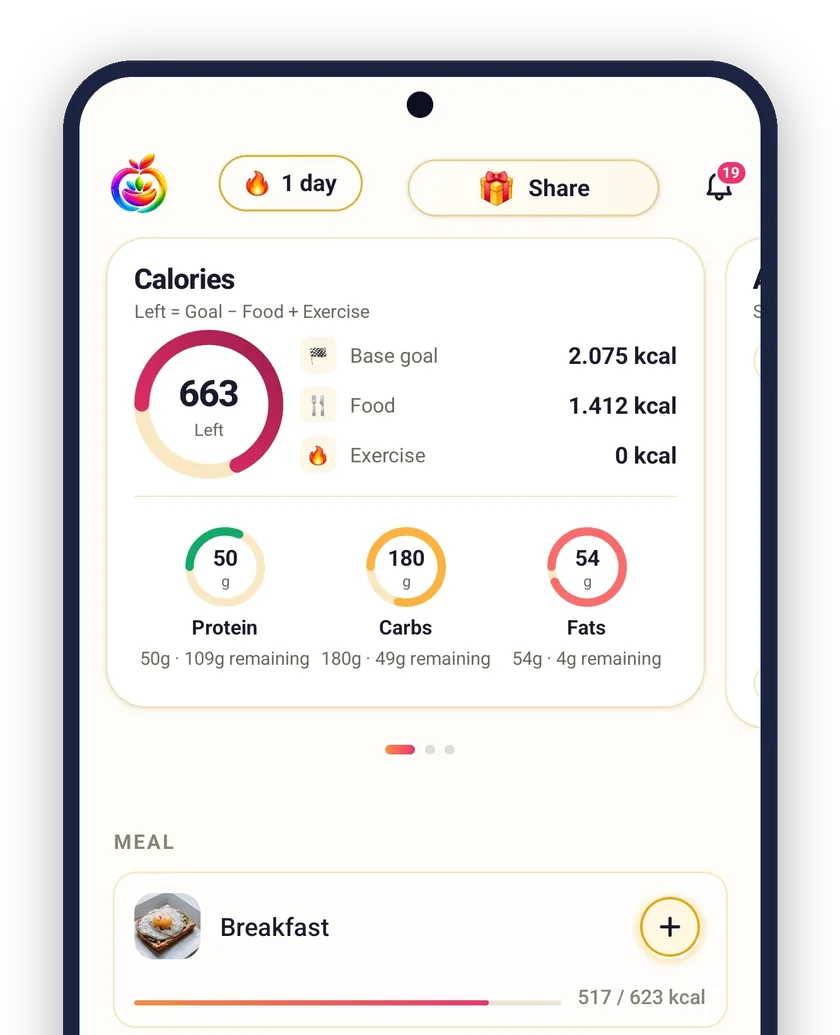
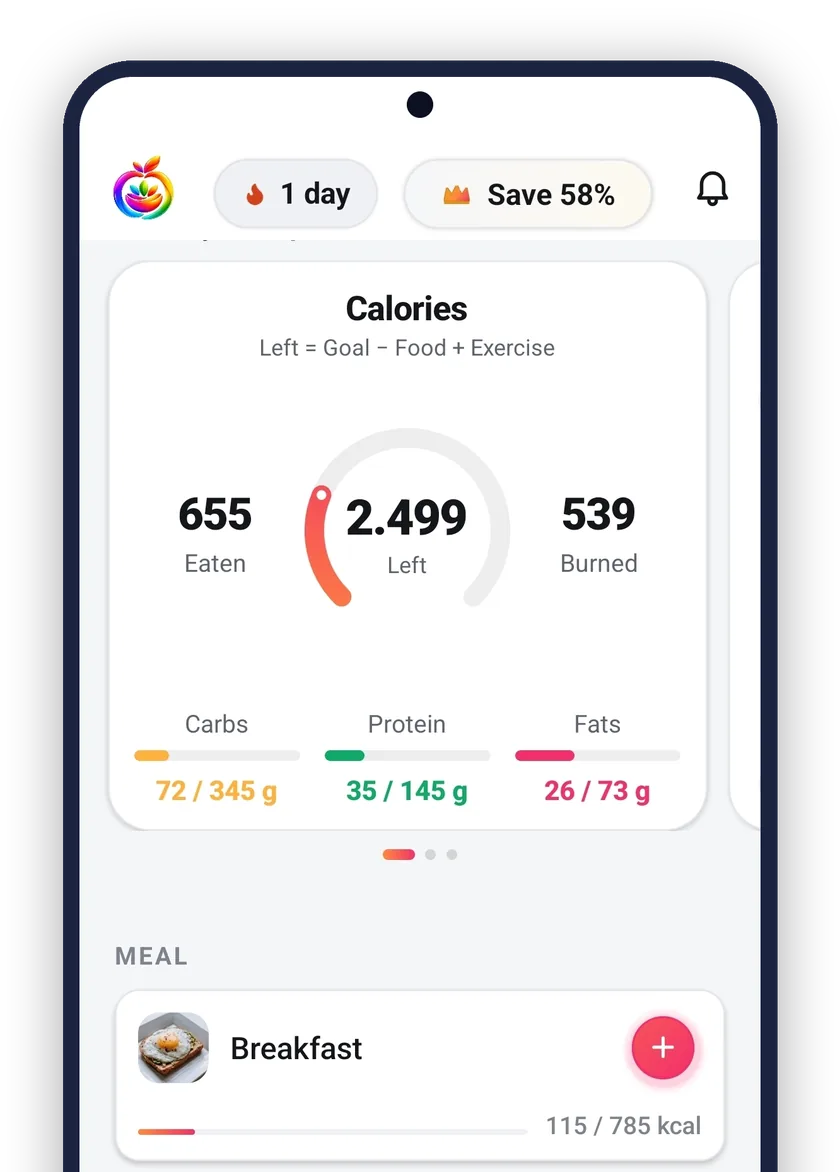
Hero: the redesigned home screen, sitting 1 of the re-capture
The app was redesigned again between 3 and 9 September (new calories
card with gauge and macro bars, new bottom navigation, new card system),
so the 31 August captures were stale. The hero pair is retaken to spec —
bell cleared, matched ES/EN state, same crop row — framed at 840x1172,
31-33 KB each. Chips re-annotate numbers that are actually in the new
capture (655 kcal eaten, 35 g protein) and the protein chip moves onto
the carousel-dots row so it no longer sits on the fats value.

tools/APP-HANDOFF.md carries the app-side findings for the next app
batch; tools/CAPTURE-BACKLOG.md notes the streak re-capture still owed
and the two placeholder mini cards.

Claude-Session: https://claude.ai/code/session_01KevDdJUKxk6qF4wjb19pLt

diff --git a/index.html b/index.html
@@ -219,19 +219,19 @@
           <div class="hero-visual">
             <div class="hero-stage-x" id="heroStage">
               <div class="illus" data-par="6">
-                <img src="assets/img/screens/home-hero-es.webp" width="840" height="1035"
-                     alt="Captura real de la app: la pantalla de inicio de Fotocal en un día con registros — 663 kcal restantes de un objetivo de 2.075, anillos de proteína, carbohidratos y grasas, y el desayuno ya registrado con 517 kcal"
+                <img src="assets/img/screens/home-hero-es.webp" width="840" height="1172"
+                     alt="Captura real de la app: la pantalla de inicio de Fotocal en un día con registros — 655 kcal ingeridas, 2.499 restantes y 539 quemadas, barras de carbohidratos, proteína y grasas, y el desayuno ya registrado con 115 kcal"
                      fetchpriority="high" decoding="async">
               </div>
               <!-- The chips repeat two numbers actually visible in the
                    screenshot beside them — annotations, not inventions. -->
               <div class="f-chip f-chip-1" data-par="-14" aria-hidden="true">
                 <span class="f-chip-ico"><svg viewBox="0 0 24 24" fill="none" stroke="currentColor" stroke-width="2" stroke-linecap="round" stroke-linejoin="round"><path d="M12 2s4 4.5 4 8a4 4 0 0 1-8 0c0-1.5.6-2.8 1.2-3.8"/><path d="M12 22a6 6 0 0 0 6-6c0-2-1-3.5-2-5"/><path d="M12 22a6 6 0 0 1-6-6c0-1 .3-2 .8-3"/></svg></span>
-                <span><strong>663 kcal</strong><small>restantes hoy</small></span>
+                <span><strong>655 kcal</strong><small>ingeridas hoy</small></span>
               </div>
               <div class="f-chip f-chip-2" data-par="-10" aria-hidden="true">
                 <span class="f-chip-ico"><svg viewBox="0 0 24 24" fill="none" stroke="currentColor" stroke-width="2.2" stroke-linecap="round"><circle cx="12" cy="12" r="8" opacity=".35"/><path d="M12 4a8 8 0 0 1 8 8"/></svg></span>
-                <span><strong>50 g de proteína</strong><small>registrados hoy</small></span>
+                <span><strong>35 g de proteína</strong><small>registrados hoy</small></span>
               </div>
             </div>
           </div>

diff --git a/en/index.html b/en/index.html
@@ -219,19 +219,19 @@
           <div class="hero-visual">
             <div class="hero-stage-x" id="heroStage">
               <div class="illus" data-par="6">
-                <img src="/assets/img/screens/home-hero-en.webp" width="840" height="1035"
-                     alt="Real app screenshot: the Fotocal home screen on a logged day — 663 kcal left of a 2,075 goal, rings for protein, carbs and fat, and breakfast already logged at 517 kcal"
+                <img src="/assets/img/screens/home-hero-en.webp" width="840" height="1172"
+                     alt="Real app screenshot: the Fotocal home screen on a logged day — 655 kcal eaten, 2,499 left and 539 burned, bars for carbs, protein and fat, and breakfast already logged at 115 kcal"
                      fetchpriority="high" decoding="async">
               </div>
               <!-- The chips repeat two numbers actually visible in the
                    screenshot beside them — annotations, not inventions. -->
               <div class="f-chip f-chip-1" data-par="-14" aria-hidden="true">
                 <span class="f-chip-ico"><svg viewBox="0 0 24 24" fill="none" stroke="currentColor" stroke-width="2" stroke-linecap="round" stroke-linejoin="round"><path d="M12 2s4 4.5 4 8a4 4 0 0 1-8 0c0-1.5.6-2.8 1.2-3.8"/><path d="M12 22a6 6 0 0 0 6-6c0-2-1-3.5-2-5"/><path d="M12 22a6 6 0 0 1-6-6c0-1 .3-2 .8-3"/></svg></span>
-                <span><strong>663 kcal</strong><small>left today</small></span>
+                <span><strong>655 kcal</strong><small>eaten today</small></span>
               </div>
               <div class="f-chip f-chip-2" data-par="-10" aria-hidden="true">
                 <span class="f-chip-ico"><svg viewBox="0 0 24 24" fill="none" stroke="currentColor" stroke-width="2.2" stroke-linecap="round"><circle cx="12" cy="12" r="8" opacity=".35"/><path d="M12 4a8 8 0 0 1 8 8"/></svg></span>
-                <span><strong>50 g protein</strong><small>logged so far</small></span>
+                <span><strong>35 g protein</strong><small>logged so far</small></span>
               </div>
             </div>
           </div>

diff --git a/assets/js/i18n.js b/assets/js/i18n.js
@@ -79,11 +79,11 @@ window.FOTOCAL_I18N = {
     "proof.b2": "The full price, before you download. No surprises inside the app.",
     "proof.t3": "GDPR: your data is yours",
     "proof.b3": "Delete your account and everything in it from the app, anytime.",
-    "hero.alt": "Real app screenshot: the Fotocal home screen on a logged day — 663 kcal left of a 2,075 goal, rings for protein, carbs and fat, and breakfast already logged at 517 kcal",
+    "hero.alt": "Real app screenshot: the Fotocal home screen on a logged day — 655 kcal eaten, 2,499 left and 539 burned, bars for carbs, protein and fat, and breakfast already logged at 115 kcal",
     "hero.img": "assets/img/screens/home-hero-en.webp",
-    "hero.c1t": "663 kcal",
-    "hero.c1s": "left today",
-    "hero.c2t": "50 g protein",
+    "hero.c1t": "655 kcal",
+    "hero.c1s": "eaten today",
+    "hero.c2t": "35 g protein",
     "hero.c2s": "logged so far",
     "cta.badgeTop": "GET IT ON",
 
@@ -363,11 +363,11 @@ window.FOTOCAL_I18N = {
     "proof.b2": "El precio completo, antes de descargar. Sin sorpresas dentro de la app.",
     "proof.t3": "RGPD: tus datos son tuyos",
     "proof.b3": "Elimina tu cuenta y todo lo que contiene desde la propia app, cuando quieras.",
-    "hero.alt": "Captura real de la app: la pantalla de inicio de Fotocal en un día con registros — 663 kcal restantes de un objetivo de 2.075, anillos de proteína, carbohidratos y grasas, y el desayuno ya registrado con 517 kcal",
+    "hero.alt": "Captura real de la app: la pantalla de inicio de Fotocal en un día con registros — 655 kcal ingeridas, 2.499 restantes y 539 quemadas, barras de carbohidratos, proteína y grasas, y el desayuno ya registrado con 115 kcal",
     "hero.img": "assets/img/screens/home-hero-es.webp",
-    "hero.c1t": "663 kcal",
-    "hero.c1s": "restantes hoy",
-    "hero.c2t": "50 g de proteína",
+    "hero.c1t": "655 kcal",
+    "hero.c1s": "ingeridas hoy",
+    "hero.c2t": "35 g de proteína",
     "hero.c2s": "registrados hoy",
     "cta.badgeTop": "DISPONIBLE EN",
 

diff --git a/src/index.html b/src/index.html
@@ -135,7 +135,7 @@
           <div class="hero-visual">
             <div class="hero-stage-x" id="heroStage">
               <div class="illus" data-par="6">
-                <img src="assets/img/screens/home-hero-es.webp" width="840" height="1035"
+                <img src="assets/img/screens/home-hero-es.webp" width="840" height="1172"
                      alt="Real app screenshot: the Fotocal home screen on a logged day"
                      data-i18n-alt="hero.alt" data-i18n-src="hero.img"
                      fetchpriority="high" decoding="async">
@@ -144,11 +144,11 @@
                    screenshot beside them — annotations, not inventions. -->
               <div class="f-chip f-chip-1" data-par="-14" aria-hidden="true">
                 <span class="f-chip-ico"><svg viewBox="0 0 24 24" fill="none" stroke="currentColor" stroke-width="2" stroke-linecap="round" stroke-linejoin="round"><path d="M12 2s4 4.5 4 8a4 4 0 0 1-8 0c0-1.5.6-2.8 1.2-3.8"/><path d="M12 22a6 6 0 0 0 6-6c0-2-1-3.5-2-5"/><path d="M12 22a6 6 0 0 1-6-6c0-1 .3-2 .8-3"/></svg></span>
-                <span><strong data-i18n="hero.c1t">663 kcal</strong><small data-i18n="hero.c1s">left today</small></span>
+                <span><strong data-i18n="hero.c1t">655 kcal</strong><small data-i18n="hero.c1s">eaten today</small></span>
               </div>
               <div class="f-chip f-chip-2" data-par="-10" aria-hidden="true">
                 <span class="f-chip-ico"><svg viewBox="0 0 24 24" fill="none" stroke="currentColor" stroke-width="2.2" stroke-linecap="round"><circle cx="12" cy="12" r="8" opacity=".35"/><path d="M12 4a8 8 0 0 1 8 8"/></svg></span>
-                <span><strong data-i18n="hero.c2t">50 g protein</strong><small data-i18n="hero.c2s">logged so far</small></span>
+                <span><strong data-i18n="hero.c2t">35 g protein</strong><small data-i18n="hero.c2s">logged so far</small></span>
               </div>
             </div>
           </div>

diff --git a/assets/css/home.css b/assets/css/home.css
@@ -101,7 +101,7 @@
    they annotate: the kcal chip hangs off the bottom-left corner, the
    protein chip rides the right edge over the carousel's cut card. */
 .f-chip-1 { bottom: -14px; left: 6%; animation-delay: 0s; }
-.f-chip-2 { bottom: 24%; right: -12px; animation-delay: 1.4s; }
+.f-chip-2 { bottom: 19%; right: -12px; animation-delay: 1.4s; }   /* on the carousel-dots row, below the macro values */
 .f-chip-1 .f-chip-ico { background: linear-gradient(135deg, #F59E0B, #F97316); }
 .f-chip-2 .f-chip-ico { background: linear-gradient(135deg, #17B26A, #0E9355); }
 @keyframes chip-float {

diff --git a/tools/APP-HANDOFF.md b/tools/APP-HANDOFF.md
@@ -1,0 +1,41 @@
+# Fotocal app — items found during website work
+Source: fotocal/fotocal @ 6c265aa, read 2026-09-09. Hand to the app batch as-is.
+
+1. voice-food.tsx header comment says "FREE feature, never premium-gated".
+   Wrong. Product rule (owner, 2026-09-09): 1 voice log/day free, unlimited
+   on Premium. Coach Kal's system prompt and the paywall are right; only the
+   comment is wrong.
+
+2. paywall.tsx rotator line "No ads · more features" (i18n paywall.rotator.5,
+   EN and ES). The app ships no ad SDK — nobody sees ads. Phantom benefit;
+   remove the line.
+
+3. supabase/functions/coach-chat/index.ts — the PREMIUM vs FREE line of the
+   system prompt (~line 538) still says free scans are "2 AI scans/day
+   (photo or recipe)". Recipe mode is off (RECIPE_MODE_ENABLED = false);
+   drop "or recipe".
+
+4. coach-chat edge function redeploy. app/coach.tsx notes the server's 5/day
+   coach cap "is removed too, but the Edge Function must be REDEPLOYED for
+   the change to take effect". Confirm it has been redeployed — the website
+   promises unlimited Coach Kal on the free plan.
+
+5. scan-result.tsx ~line 739 comment: "the comment said 3; FREE_DAILY_LIMIT
+   in scan-food is 2". The code is right (2); tidy the comment.
+
+6. Number formatting in English: the EN home screen shows "2.499" for two
+   thousand four hundred and ninety-nine (capture 2026-09-09). English
+   expects "2,499"; the dot reads as a decimal.
+
+7. DEFECT — scan → Coach Kal handoff composes the question in English when
+   the app language is Spanish (observed 2026-08-31). Reply language is
+   correct, so detection is fine; consistent with an untranslated key on
+   the prompt template.
+
+8. DEFECT — Kal's Spanish replies get calorie arithmetic wrong (2026-08-31).
+   Same data both languages, 905 kcal bowl vs 663 kcal remaining:
+     EN: "it will put you over, leaving you with -242 kcal" — correct.
+     ES: "905 kcal … encaja bien con tus 663 kcal restantes" — wrong by 242.
+   A second ES sample called the 2 075 kcal daily GOAL "tus calorías
+   restantes". 2/2 Spanish wrong, 2/2 English right — suspect the Spanish
+   prompt template around numeric context, not the model's maths.

diff --git a/tools/CAPTURE-BACKLOG.md b/tools/CAPTURE-BACKLOG.md
@@ -10,9 +10,14 @@ new pair (ES + EN, same state) arrives. REMIND THE USER when relevant.
   · Take it on a streak longer than "1 día" — an app that sells habit
     formation deserves a streak with some days on it. Needs a week of
     real use; do not fake it, do not edit pixels.
-  When the founder has a streak worth showing, ask for a fresh P1 pair
-  (badge cleared, same rules: mid-logged day, no empty states) and swap
-  home-hero-es/en.webp. Current captures dated 2026-08-31.
+  2026-09-09: re-captured on the redesigned app — badge cleared (done),
+  streak still "1 día". When the founder has a streak worth showing, ask
+  for a fresh P1 pair and swap home-hero-es/en.webp. Current captures
+  dated 2026-09-09.
+
+## Subscription page mini cards (menu scanner, unlimited voice)
+  Placeholder illustrations (feat-menu.webp, feat-voice.webp) until the
+  real captures from sittings 5 and 6 land — owner's call to keep them.
 
 ## /ai/ social-share image
   og:image on /ai/ still points at the retired coach-kal illustration —
